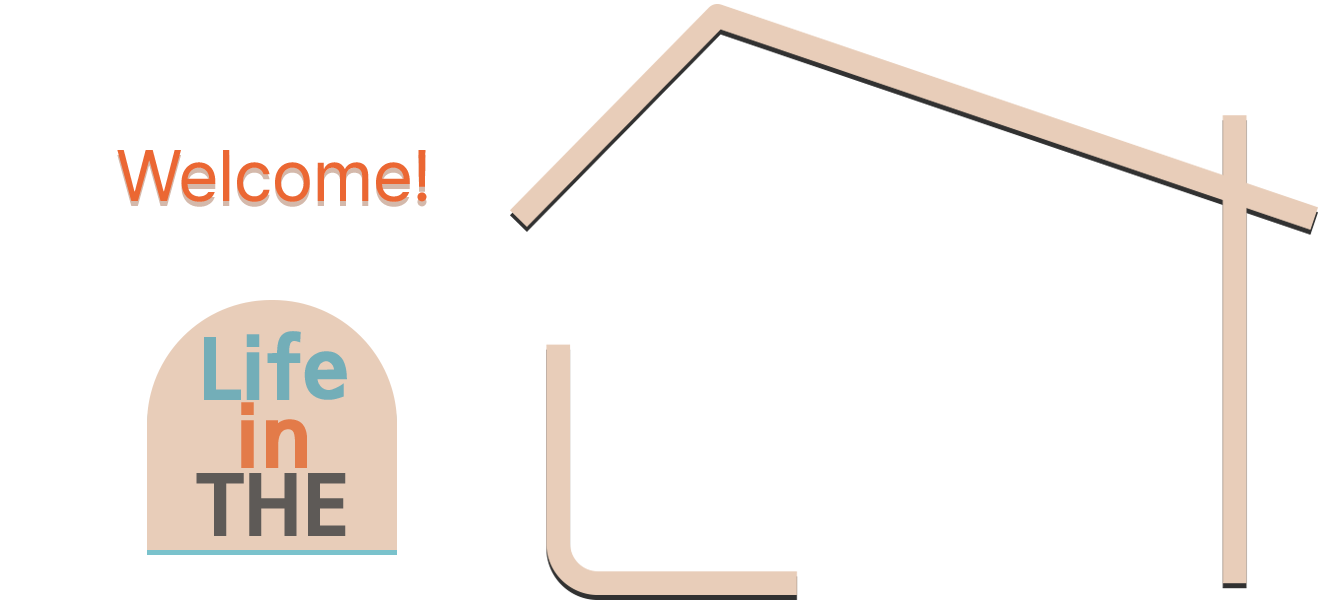
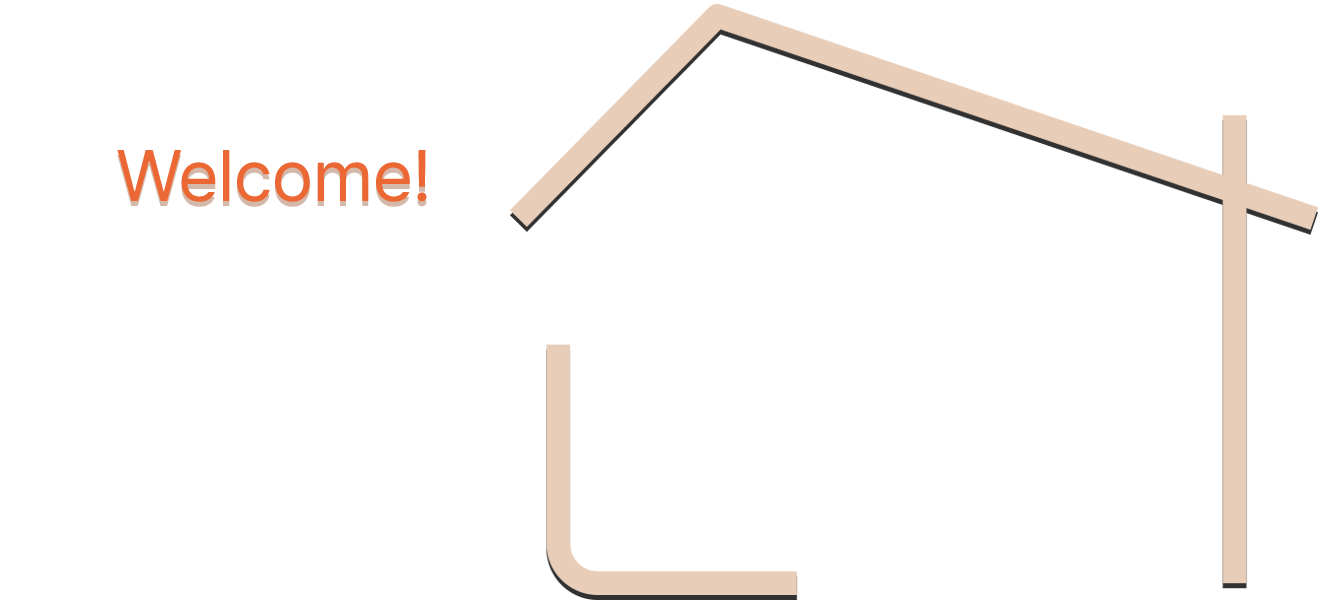
Add files via upload

Changed region(s): [[0.0932, 0.48, 0.3106, 0.93]]

diff --git a/intro/index.html b/intro/index.html
@@ -163,14 +163,21 @@
       class="right">
     </div><!--card-->
 
-    <div id="storage">
-        <div class="store" data-aos="fade" data-aos-duration="1000" data-aos-delay="300"></div>
+    <div id="logo">
+      <div></div>
+    </div><!--logo-->
 
+
+    <div id="storage">
         <div class="text_1">
-          <h2>사직 물류센터</h2>
-          <p data-aos="fade">Life in THE는 2022년 12월 기준 사하 물류센터에서 신축 사직 물류센터로 확장이전하였습니다.<br>
+          <h2>사하 물류센터</h2>
+          <p data-aos="fade">Life in THE는 2022년 12월 기준 동래 물류센터에서 신축 사하 물류센터로 확장이전하였습니다.<br>
             이를 통해 더 많은 재고상품을 확보하고 당일 출하율을 최대한 증대하여 빠른 배송과 상품 제공으로<br>
             고객들에게 높은 만족과 좋은 서비스를 제공하고 있습니다.</p>
+          <div class="img_1">
+            <img src="./images/storage_1.png" alt="물류창고1" class="storage_1" data-aos="fade">
+            <img src="./images/storage_2.png" alt="물류창고1" class="storage_2" data-aos="fade" data-aos-delay="100">
+          </div>
         </div>
 
         <div class="text_2">
@@ -178,11 +185,19 @@
           <p data-aos="fade">최대한 정확한 배송을 위하여 약 10,000개 이상의 재고 상품을 보유하고 있습니다.<br>
             2022년 12월, 기존 물량의 2배를 출하할 수 있는 신규 물류센터로 이전하여<br>
             당일 출하율을 늘리고 고객에게 편리성 향상 위해 노력하고 있습니다.</p>
+          <div class="img_2">
+            <img src="./images/storage_3.png" alt="물류창고3" class="storage_3" data-aos="fade">
+            <img src="./images/storage_4_.png" alt="물류창고4" class="storage_4" data-aos="fade" data-aos-delay="100">
+          </div>
         </div>
     </div><!--storage-->
 
     <div id="map" data-aos="fade">
-      <iframe src="https://www.google.com/maps/embed?pb=!1m18!1m12!1m3!1d2741.7746452249135!2d129.06106156148394!3d35.193067936649854!2m3!1f0!2f0!3f0!3m2!1i1024!2i768!4f13.1!3m3!1m2!1s0x0%3A0x6ef11ea46cdefe25!2z7IKs7KeB7JW86rWs7J6l!5e0!3m2!1sko!2skr!4v1669185909315!5m2!1sko!2skr" width="500" height="350" style="border:0;" allowfullscreen="" loading="lazy" referrerpolicy="no-referrer-when-downgrade" data-aos="fade" data-aos-duration="2000" data-aos-delay="300"></iframe>
+      <div class="load">
+        <h2>BUS</h2>
+        <p>96-1, 마을버스 14</p>
+      </div>
+      <iframe src="https://www.google.com/maps/embed?pb=!1m18!1m12!1m3!1d840.219291230172!2d128.99036063149524!3d35.07674679466862!2m3!1f0!2f0!3f0!3m2!1i1024!2i768!4f13.1!3m3!1m2!1s0x3568e81f05b2dad1%3A0xbc5d0424cc702d49!2z6rWs7Y-J7LKg66y87KCQ!5e0!3m2!1sko!2skr!4v1670814754577!5m2!1sko!2skr" width="500" height="350" style="border:0;" allowfullscreen="" loading="lazy" referrerpolicy="no-referrer-when-downgrade" data-aos="fade" data-aos-duration="2000" data-aos-delay="300"></iframe>
     </div><!--map-->
 
     <div id="footer">
